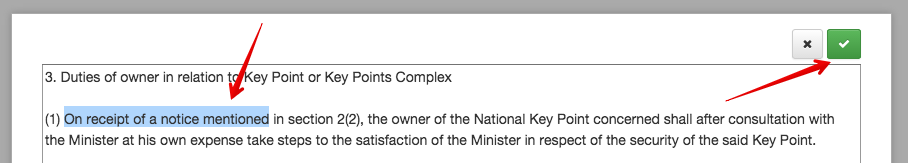
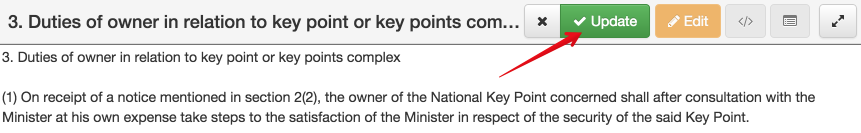
Update docs to reflect new editing.

diff --git a/docs/guide/editing.rst b/docs/guide/editing.rst
@@ -98,7 +98,7 @@ The easiest way to make an edit is to use the Table of Contents on the left part
 
     .. image:: edit-button.png
 
-3. Indigo will show the in-place editor. Notice that the content of the editor is the textual content of the section you're editing, without any formatting and with very simple layout.
+3. Indigo will show the simple editor. Notice that the content of the editor is the textual content of the section you're editing, without any formatting and with very simple layout.
 4. Make the changes you require.
 5. Click the **green tick** at the top-right corner where you clicked the **Edit** button.
 
